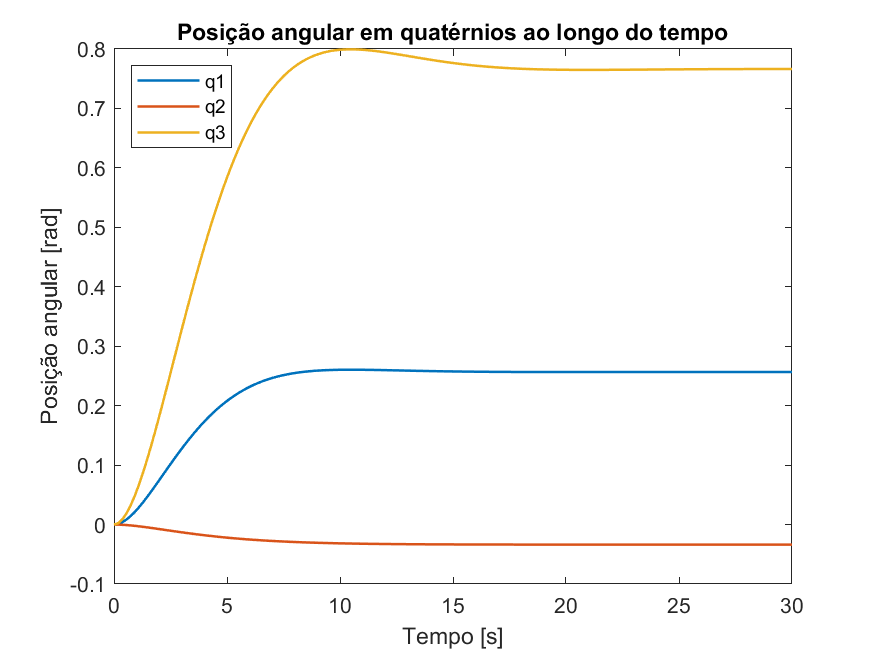
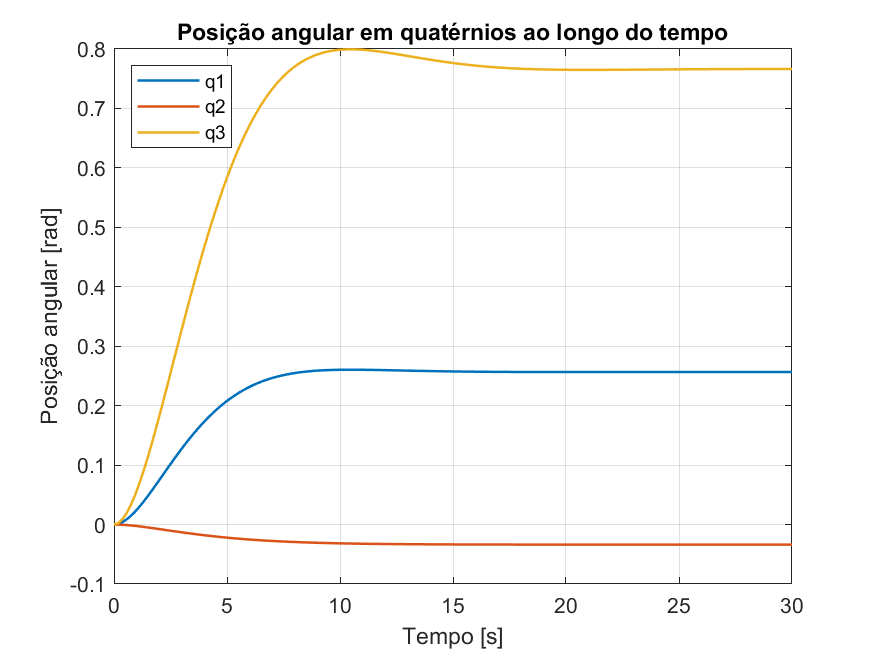
a

diff --git a/m_seg_cte.m b/m_seg_cte.m
@@ -1,3 +1,5 @@
+% Seguidor de referência constante
+
 clc
 clear
 close
@@ -5,32 +7,36 @@ close
 addpath('Matrizes\')
 addpath("Imagens\Controle Moderno\")
 
+%Importa matrizes
 A = importdata('matrix_A1lin.txt');
 B = importdata('matrix_B1lin.txt');
 C = importdata('matrix_C1.txt');
 D = importdata('matrix_D1.txt');
 
+% Define a referência constante
 x_ref = [pi/4 pi/6 pi/3 0 0 0];
 seq = 'ZXZ';
 q_ref = angle2quat(x_ref(1),x_ref(2),x_ref(3),seq);
 xq_ref = [q_ref(2:4),x_ref(4:6)];
 
+% Regulador por alocação de polos
 p1=-0.3+0.3i;
 p2=-0.4+0.3i;
 p = [p1 conj(p1) p2 conj(p2) -0.5 -0.4];
 K = place(A,B,p);
 F = A-B*K;
 
+% Cálculo da entrada em regime permanente
 Gamma = [A,B;C,D];
 B_ls = [zeros(6,6);eye(3,6);zeros(3,6)];
 N = linsolve(Gamma,B_ls);
 Nx = N(1:6,:);
 Nu = N(7:9,:);
-
 u_rp = (Nu+K*Nx)*xq_ref';
 B2 = B;
 B2(4:6,:) = B2(4:6,:).*u_rp;
 
+% Simulação do sistema
 sys_aloc = ss(F,B2,C,D);
 [y,t,x]=step(sys_aloc,30);
 
@@ -49,6 +55,7 @@ plot(t,w1,LineWidth=1.20)
 hold on
 plot(t,w2,LineWidth=1.20)
 plot(t,w3,LineWidth=1.20)
+grid on
 title("Velocidade angular ao longo do tempo")
 xlabel("Tempo [s]")
 ylabel("Velocidade angular [rad/s]")
@@ -64,6 +71,7 @@ plot(t,q1,LineWidth=1.20)
 hold on
 plot(t,q2,LineWidth=1.20)
 plot(t,q3,LineWidth=1.20)
+grid on
 title("Posição angular em quatérnios ao longo do tempo")
 xlabel("Tempo [s]")
 ylabel("Posição angular [rad]")
@@ -79,6 +87,7 @@ plot(t,psi,LineWidth=1.20)
 hold on
 plot(t,theta,LineWidth=1.20)
 plot(t,phi,LineWidth=1.20)
+grid on
 title("Posição angular em ângulos de Euler ao longo do tempoo")
 xlabel("Tempo [s]")
 ylabel("Posição angular [rad]")
@@ -90,12 +99,4 @@ fullFileName = fullfile("Imagens\Controle Moderno", baseFileName);
 saveas(3, fullFileName);
 
 
-
-figure(4)
-plot(t,K*y(:,:,1)')
-hold on
-plot(t,K*y(:,:,2)')
-plot(t,K*y(:,:,3)')
-legend('e1','e2','e3','Location','southeast')
-hold off
 

diff --git a/m_seg_var.m b/m_seg_var.m
@@ -1,25 +1,35 @@
+% Seguidor de referência variante
+
 clc
 clear
 close all
 
 addpath('Matrizes\')
+addpath("Imagens\Controle Moderno\")
+
+%Importa matrizes
 A = importdata('matrix_A1lin.txt');
-B1 = [zeros(3,6);zeros(3,3) eye(3,3)]*1;
+B1 = [zeros(3,6);zeros(3,3) eye(3,3)];
 B2 = importdata('matrix_B1lin.txt');
 C = importdata('matrix_C1.txt');
 D = importdata('matrix_D1.txt');
 
+% Define a referência constante
 x_r = [pi/3 pi/4 pi/5 0 0 0];
 seq = 'ZXZ';
 q_r = angle2quat(x_r(1),x_r(2),x_r(3),seq);
 xq_r = [q_r(2:4),x_r(4:6)];
 
+% Regulador por alocação de polos
 p1 = -0.3+0.3i;
 p2 = -0.4+0.3i;
 p = [p1 conj(p1) p2 conj(p2) -0.5 -0.4];
 K = place(A,B2,p);
 F = A-B2*K;
 
+wd = 2;
+
+% Matrizes de referência e disturbios
 A_r = [0 0 0 1/2 0 0;
     0 0 0 0 1/2 0;
     0 0 0 0 0 -1/2; 
@@ -41,11 +51,13 @@ K_ex = inv(C_bar*inv(F)*B2)*C_bar*inv(F)*F2;
 
 A_y = [B1 B2*K]-B2*K_ex;
 
+% Definição do sistema
 A_bar = [F A_y;zeros(12,6) A_o];
 x_bar_0 = [0 0 0 0 0 0 ...
     0 0 0 0 0 0 ...
-    xq_r(1) xq_r(2) xq_r(3) 0 0 0 ]';
+    xq_r(1) xq_r(2) xq_r(3) 0 0 0]';
 
+% Simulação do sistema
 sys = ss(A_bar,x_bar_0,A_bar,x_bar_0);
 [y,t]=step(sys,30);
 
@@ -64,6 +76,7 @@ plot(t,w1,LineWidth=1.20)
 hold on
 plot(t,w2,LineWidth=1.20)
 plot(t,w3,LineWidth=1.20)
+grid on
 title("Velocidade angular ao longo do tempo")
 xlabel("Tempo [s]")
 ylabel("Velocidade angular [rad/s]")
@@ -79,6 +92,7 @@ plot(t,q1,LineWidth=1.20)
 hold on
 plot(t,q2,LineWidth=1.20)
 plot(t,q3,LineWidth=1.20)
+grid on
 title("Posição angular em quatérnios ao longo do tempo")
 xlabel("Tempo [s]")
 ylabel("Posição angular [rad]")
@@ -94,6 +108,7 @@ plot(t,psi,LineWidth=1.20)
 hold on
 plot(t,theta,LineWidth=1.20)
 plot(t,phi,LineWidth=1.20)
+grid on
 title("Posição angular em ângulos de Euler ao longo do tempoo")
 xlabel("Tempo [s]")
 ylabel("Posição angular [rad]")

diff --git a/m_aloc2.m b/m_aloc2.m
@@ -1,5 +1,5 @@
 clc
-clear all
+clear
 close all
 
 addpath('Matrizes\')
